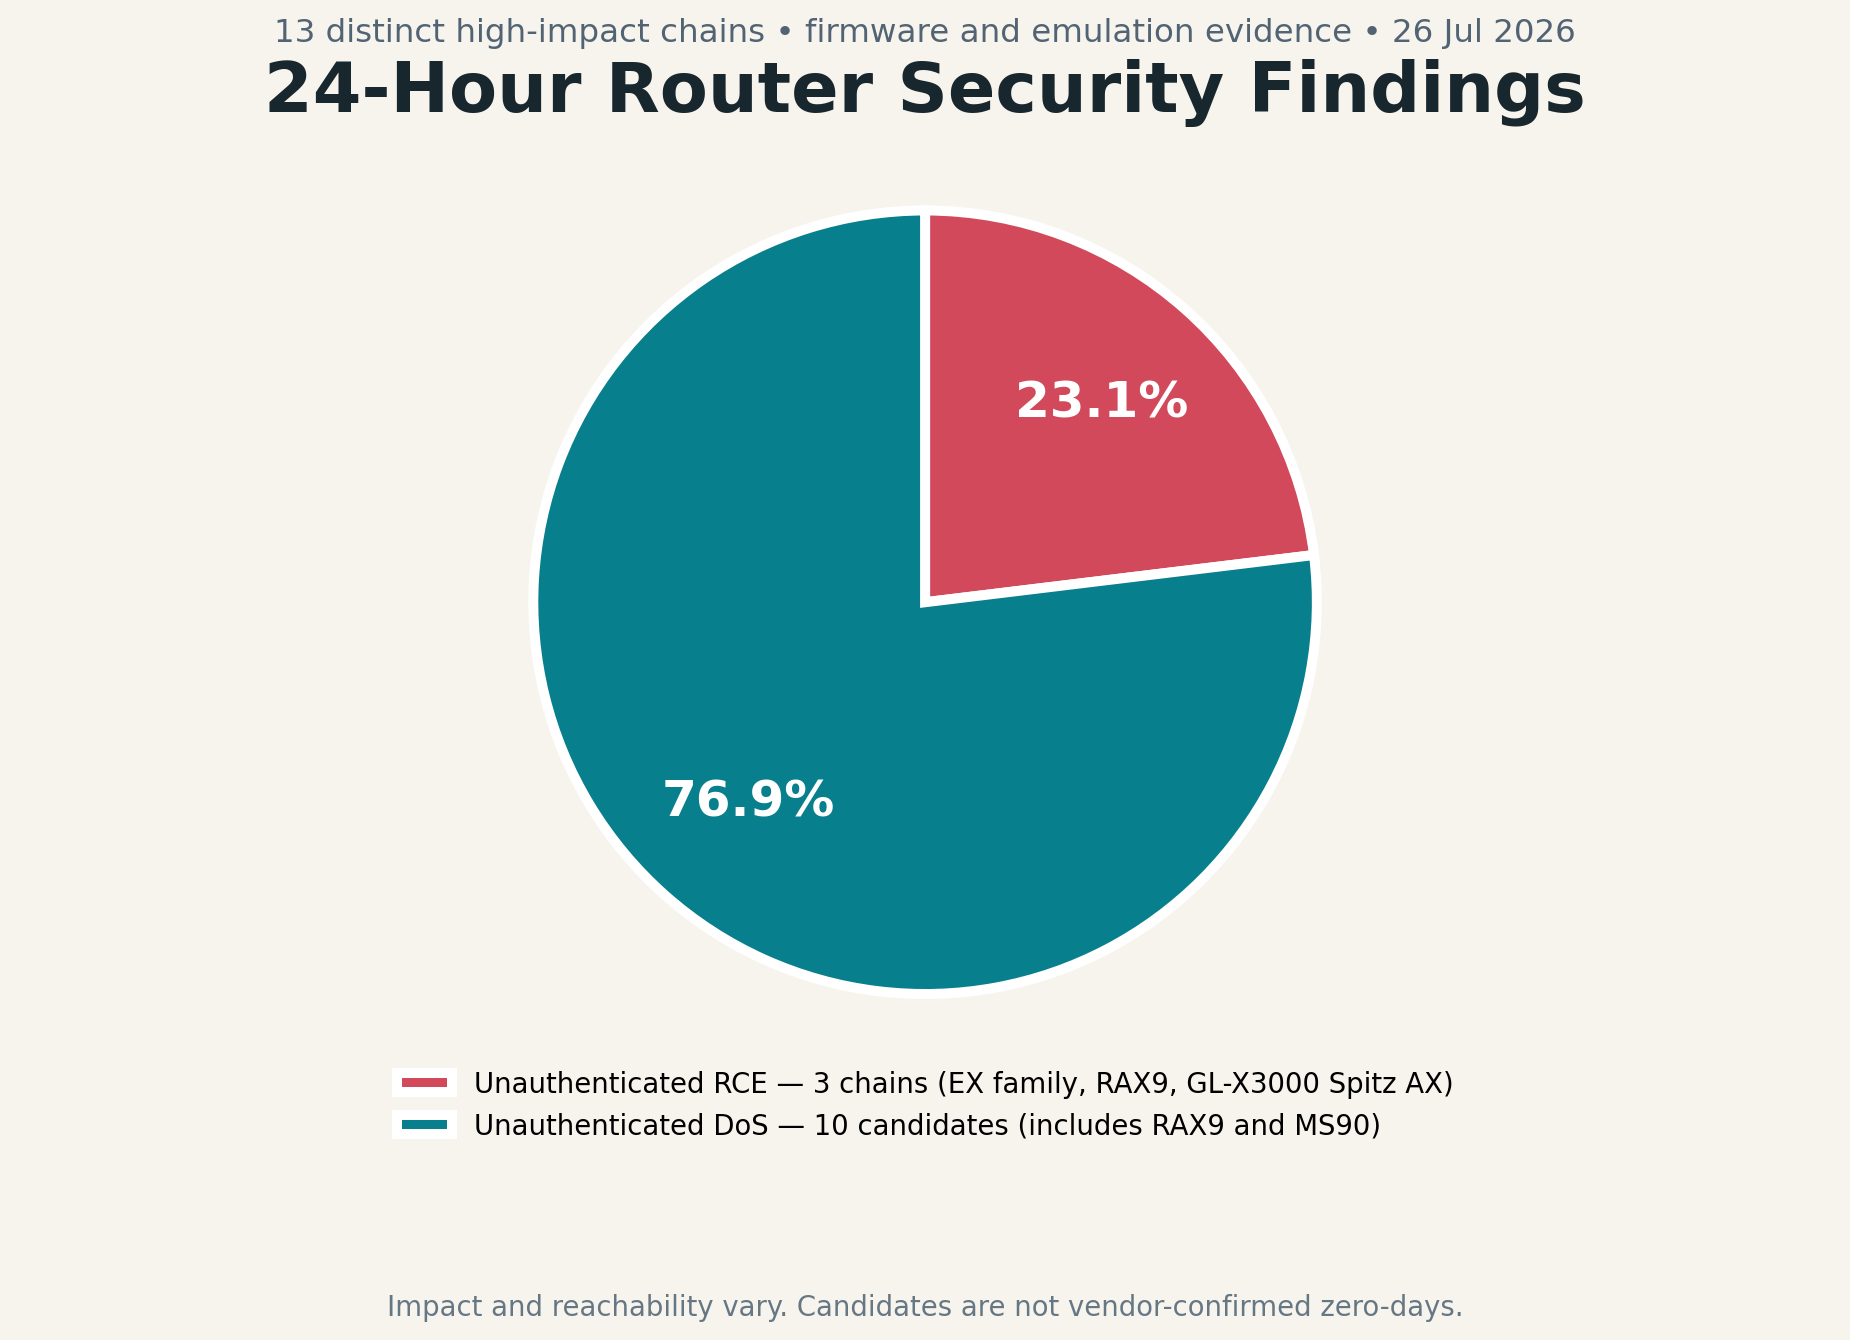
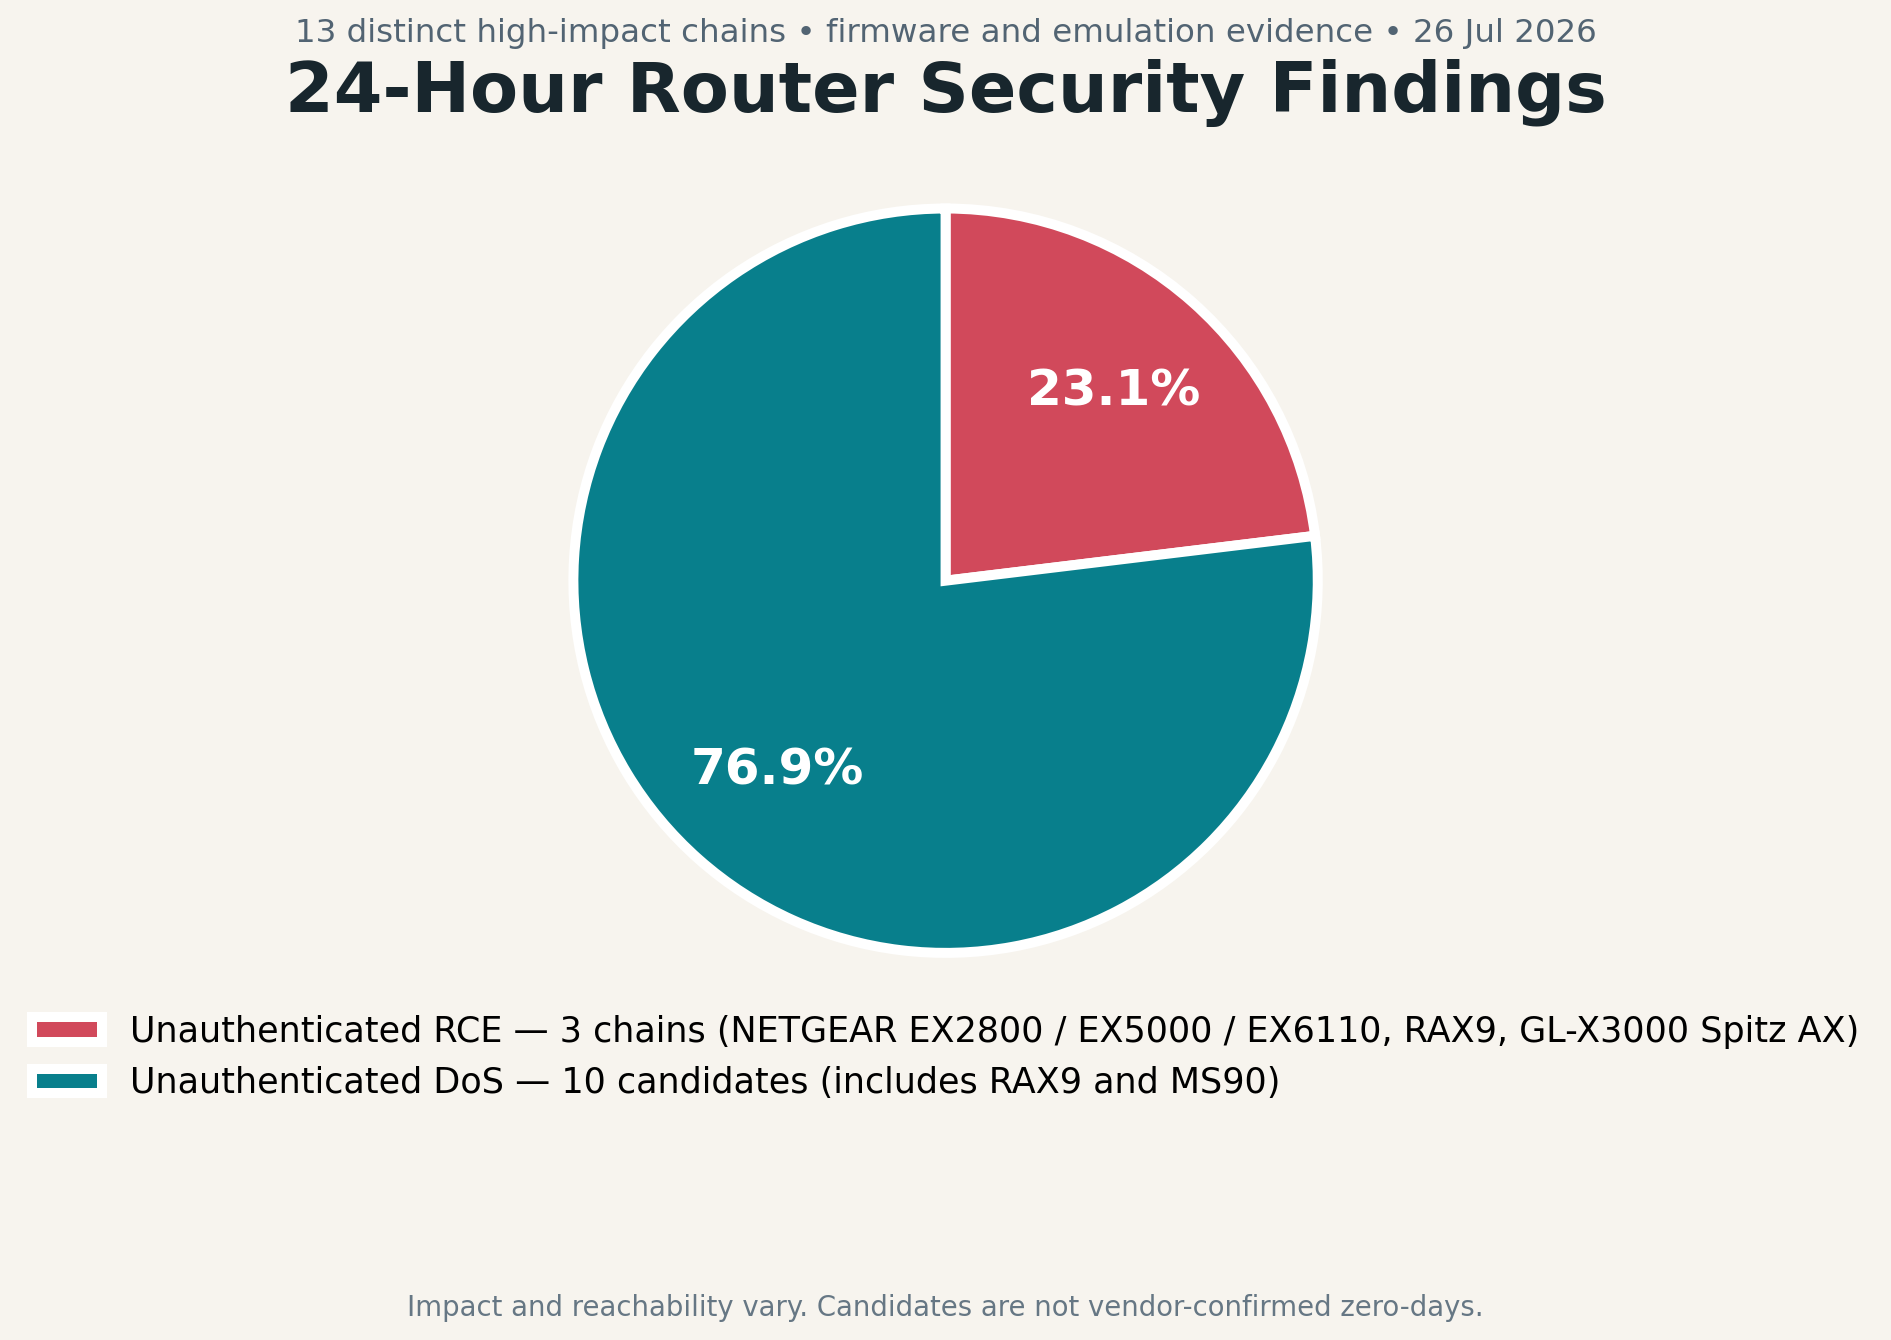
Clarify models in findings chart legend

diff --git a/site/zero-days.html b/site/zero-days.html
@@ -86,10 +86,11 @@
         >
         <figcaption>
           Twenty-four-hour findings snapshot: 3 unauthenticated RCE chains and
-          10 unauthenticated DoS candidates. The RCE group includes GL-X3000
-          Spitz AX and RAX9; the DoS group includes the distinct RAX9
-          MiniUPnPd finding and MS90. Candidate status does not imply vendor
-          confirmation or unconditional WAN exposure.
+          10 unauthenticated DoS candidates. The RCE group includes the
+          NETGEAR EX family (EX2800, EX5000, and EX6110), GL-X3000 Spitz AX,
+          and RAX9; the DoS group includes the distinct RAX9 MiniUPnPd finding
+          and MS90. Candidate status does not imply vendor confirmation or
+          unconditional WAN exposure.
         </figcaption>
       </figure>
 

diff --git a/scripts/build_24_hour_findings_pie.py b/scripts/build_24_hour_findings_pie.py
@@ -35,13 +35,16 @@ def main() -> None:
     ax.legend(
         wedges,
         [
-            f"{labels[0]} — {counts[0]} chains (EX family, RAX9, GL-X3000 Spitz AX)",
+            (
+                f"{labels[0]} — {counts[0]} chains "
+                "(NETGEAR EX2800 / EX5000 / EX6110, RAX9, GL-X3000 Spitz AX)"
+            ),
             f"{labels[1]} — {counts[1]} candidates (includes RAX9 and MS90)",
         ],
         loc="lower center",
-        bbox_to_anchor=(0.5, -0.15),
+        bbox_to_anchor=(0.5, -0.17),
         frameon=False,
-        fontsize=11,
+        fontsize=14,
         ncol=1,
     )
     ax.set_title(
@@ -68,7 +71,7 @@ def main() -> None:
         color="#667784",
     )
     ax.axis("equal")
-    fig.subplots_adjust(top=0.82, bottom=0.22, left=0.08, right=0.92)
+    fig.subplots_adjust(top=0.82, bottom=0.25, left=0.08, right=0.92)
     OUTPUT.parent.mkdir(parents=True, exist_ok=True)
     fig.savefig(OUTPUT, dpi=180, bbox_inches="tight", facecolor=fig.get_facecolor())
     plt.close(fig)
